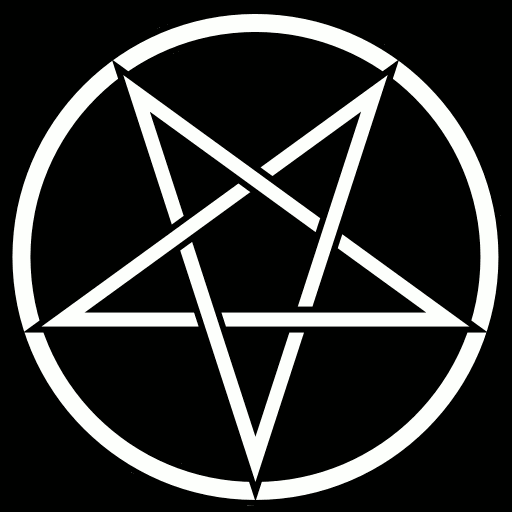
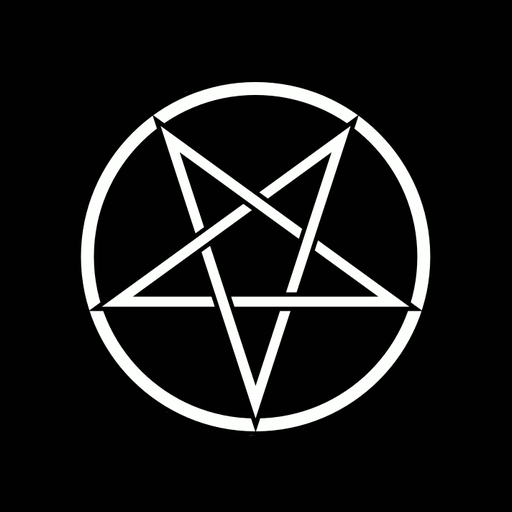
Add files via upload

Changed region(s): [[0.0, 0.0, 1.0, 1.0]]

diff --git a/index.html b/index.html
@@ -33,10 +33,13 @@ svg.gl{display:inline-block;vertical-align:-0.16em;}
 
 /* ---------- masthead ---------- */
 header{text-align:center;margin-bottom:22px;}
-.suitLoop{position:relative;width:38px;height:38px;border:1px solid var(--fg);margin:0 auto 14px;}
-.sl-g{position:absolute;inset:0;display:flex;align-items:center;justify-content:center;opacity:0;animation:suitCycle 7.2s infinite;}
-.sl-1{animation-delay:0s;} .sl-2{animation-delay:1.8s;} .sl-3{animation-delay:3.6s;} .sl-4{animation-delay:5.4s;}
-@keyframes suitCycle{0%{opacity:0;transform:scale(.82);}4%{opacity:1;transform:scale(1);}21%{opacity:1;transform:scale(1);}25%{opacity:0;transform:scale(1.12);}100%{opacity:0;}}
+.pentaWrap{width:42px;height:42px;margin:0 auto 14px;}
+.pentaIcon{width:100%;height:100%;display:block;transform-origin:center center;user-select:none;pointer-events:none;}
+@media (hover:none){
+  .pentaIcon{animation:pentaSpin 16s linear infinite;}
+}
+@keyframes pentaSpin{ from{transform:rotate(0deg);} to{transform:rotate(360deg);} }
+@media (prefers-reduced-motion:reduce){ .pentaIcon{animation:none;} }
 h1{font-family:'Manufacturing Consent','IBM Plex Mono',serif;font-weight:400;
    font-size:clamp(38px,13vw,58px);line-height:1;letter-spacing:.01em;}
 .kicker{font-size:9.5px;letter-spacing:.2em;text-transform:uppercase;color:var(--fg-dim);margin-top:9px;line-height:1.7;}
@@ -75,6 +78,8 @@ button:focus-visible{outline:1px solid var(--fg);outline-offset:2px;}
 .subtle{display:block;width:100%;background:none;border:none;color:var(--fg-dim);font-family:inherit;
   font-size:10px;letter-spacing:.18em;text-transform:uppercase;padding:12px 4px 2px;cursor:pointer;text-align:center;}
 .subtle:hover{color:var(--fg);}
+.solo-actions{display:flex;gap:6px;}
+.solo-actions .subtle{width:auto;flex:1;}
 
 /* ---------- interpret tab ---------- */
 .slot{margin-bottom:13px;position:relative;}
@@ -239,17 +244,19 @@ button:focus-visible{outline:1px solid var(--fg);outline-offset:2px;}
   letter-spacing:.12em;text-transform:uppercase;color:var(--fg-dim);line-height:1.3;}
 @media (prefers-reduced-motion:reduce){ .cardFace{transition:none;} }
 
-/* ---------- home card: static frame + scale-zoom breathing with table shadow ---------- */
-.cardHolder{display:inline-flex;align-items:center;justify-content:center;
-  padding:5px;border:1.5px solid #fff;border-radius:12px;}
+/* ---------- home card: cross mat + scale-zoom breathing with table shadow ---------- */
+.crossStage{position:relative;width:min(90vw,460px);margin:0 auto;}
+.crossImg{display:block;width:100%;height:auto;pointer-events:none;user-select:none;}
+.crossStage .cardSlot{position:absolute;top:32.68%;left:50%;}
 #soloSlot{border-radius:8px;transform-origin:center center;
   animation:cardBreathe 4.6s ease-in-out infinite;}
 @keyframes cardBreathe{
-  0%,100%{ transform:scale(1); box-shadow:0 3px 6px 0 rgba(0,0,0,.6); }
-  50%{ transform:scale(1.08); box-shadow:0 24px 34px 2px rgba(0,0,0,.22); }
+  0%,100%{ transform:translate(-50%,-50%) scale(1); box-shadow:0 3px 6px 0 rgba(0,0,0,.6); }
+  50%{ transform:translate(-50%,-50%) scale(1.08); box-shadow:0 24px 34px 2px rgba(0,0,0,.22); }
 }
 @media (prefers-reduced-motion:reduce){
-  #soloSlot{animation:none; box-shadow:0 3px 6px 0 rgba(0,0,0,.6);}
+  #soloSlot{animation:none; box-shadow:0 3px 6px 0 rgba(0,0,0,.6);
+    transform:translate(-50%,-50%) scale(1);}
 }
 
 /* ---------- quiz ---------- */
@@ -302,8 +309,8 @@ button:focus-visible{outline:1px solid var(--fg);outline-offset:2px;}
 <body>
 <div class="shell">
   <header>
-    <div class="suitLoop" aria-hidden="true">
-      <span class="sl-g sl-1"></span><span class="sl-g sl-2"></span><span class="sl-g sl-3"></span><span class="sl-g sl-4"></span>
+    <div class="pentaWrap">
+      <img src="./pentagram.png" class="pentaIcon" id="pentaIcon" alt="">
     </div>
     <h1>The Tarot</h1>
     <div class="kicker">Determine your destiny!<br>Predict your own future!</div>
@@ -315,14 +322,13 @@ button:focus-visible{outline:1px solid var(--fg);outline-offset:2px;}
   <!-- INTERPRET (1 CARD) -->
   <div class="pane on" id="pane-read">
     <div class="panoBg" id="panoBg"></div>
-    <div class="table" id="soloTable">
-      <div class="cardHolder">
-        <div class="cardSlot big" id="soloSlot" data-empty="1">
-          <div class="cardFace back" id="soloBack">
-            <img src="./cards/card_back.png" alt="Card back" loading="lazy">
-          </div>
-          <div class="cardFace front" id="soloFront"></div>
+    <div class="crossStage" id="crossStage">
+      <img src="./mat/cross-mat.png" class="crossImg" alt="" aria-hidden="true">
+      <div class="cardSlot big" id="soloSlot" data-empty="1">
+        <div class="cardFace back" id="soloBack">
+          <img src="./cards/card_back.png" alt="Card back" loading="lazy">
         </div>
+        <div class="cardFace front" id="soloFront"></div>
       </div>
     </div>
     <div class="ac-wrap" style="margin-top:16px;">
@@ -331,7 +337,10 @@ button:focus-visible{outline:1px solid var(--fg);outline-offset:2px;}
       <span class="fakeCaret" aria-hidden="true"></span>
       <div class="ac-list" id="soloList"></div>
     </div>
-    <button class="subtle" id="soloRandom">Random</button>
+    <div class="solo-actions">
+      <button class="subtle" id="soloRandom">Random</button>
+      <button class="subtle" id="soloReset">Reset</button>
+    </div>
     <div id="soloOut"></div>
   </div>
 
@@ -449,15 +458,19 @@ function cardImagePath(card){
   return null;
 }
 function cardPanoPath(card){
-  // Panoramic backgrounds exist for Majors only so far; Minors return null until added.
-  if(card.kind !== 'major') return null;
-  const romanMap={'0':0,'I':1,'II':2,'III':3,'IV':4,'V':5,'VI':6,'VII':7,'VIII':8,'IX':9,'X':10,
-    'XI':11,'XII':12,'XIII':13,'XIV':14,'XV':15,'XVI':16,'XVII':17,'XVIII':18,'XIX':19,'XX':20,'XXI':21};
-  const num = romanMap[card.numeral];
-  if(num === undefined) return null;
-  const padded = String(num).padStart(2,'0');
-  const safeName = card.name.replace(/\s+/g,'_');
-  return `./cards/panoramic/${padded}_${safeName}.jpg`;
+  if(card.kind === 'major'){
+    const romanMap={'0':0,'I':1,'II':2,'III':3,'IV':4,'V':5,'VI':6,'VII':7,'VIII':8,'IX':9,'X':10,
+      'XI':11,'XII':12,'XIII':13,'XIV':14,'XV':15,'XVI':16,'XVII':17,'XVIII':18,'XIX':19,'XX':20,'XXI':21};
+    const num = romanMap[card.numeral];
+    if(num === undefined) return null;
+    const padded = String(num).padStart(2,'0');
+    const safeName = card.name.replace(/\s+/g,'_');
+    return `./cards/panoramic/${padded}_${safeName}.jpg`;
+  } else if(card.kind === 'pip' || card.kind === 'court'){
+    const safeName = card.name.replace(/\s+/g,'_');
+    return `./cards/panoramic/${safeName}.jpg`;
+  }
+  return null;
 }
 
 const EL = mapGlyphs(['Fire','Water','Air','Earth']);
@@ -973,6 +986,14 @@ function setSoloCard(c){
 soloSlot.addEventListener('click', ()=>openPicker(setSoloCard));
 attachAutocomplete(soloInput, document.getElementById('soloList'), setSoloCard);
 document.getElementById('soloRandom').onclick=()=>{ setSoloCard(randomCards(1)[0]); };
+function resetSolo(){
+  soloSlot.classList.remove('flipped');
+  soloFront.innerHTML='';
+  soloInput.value=''; soloInput.dataset.cardid=''; soloInput.classList.remove('invalid');
+  soloOut.innerHTML='';
+  panoBg.classList.remove('on');
+}
+document.getElementById('soloReset').onclick=(e)=>{ pressFx(e.currentTarget); resetSolo(); };
 
 /* ---------- tab: Quiz Me ---------- */
 let quizPool=[], quizCard=null;
@@ -1173,10 +1194,16 @@ document.querySelectorAll('.tab').forEach(t=>{
   };
 });
 
-/* ---------- masthead element loop ---------- */
-['Fire','Water','Air','Earth'].forEach((el,i)=>{
-  document.querySelector('.sl-'+(i+1)).innerHTML = glyph(el, 19);
-});
+/* ---------- masthead pentagram: follows cursor on desktop, spins via CSS on touch ---------- */
+const pentaIcon=document.getElementById('pentaIcon');
+if(window.matchMedia('(hover:hover)').matches){
+  document.addEventListener('mousemove', e=>{
+    const rect=pentaIcon.getBoundingClientRect();
+    const cx=rect.left+rect.width/2, cy=rect.top+rect.height/2;
+    const angle=Math.atan2(e.clientY-cy, e.clientX-cx)*180/Math.PI;
+    pentaIcon.style.transform=`rotate(${angle-90}deg)`;
+  });
+}
 
 buildSpreadUI();
 try{ soloInput.focus({preventScroll:true}); }catch(e){ soloInput.focus(); }

diff --git a/sw.js b/sw.js
@@ -1,6 +1,6 @@
 // Card Analysis — service worker
 // Bump CACHE when you edit index.html so returning visitors get the update.
-const CACHE = 'the-tarot-v7';
+const CACHE = 'the-tarot-v9';
 const SHELL = [
   './',
   './index.html',
@@ -9,6 +9,8 @@ const SHELL = [
   './icon-512.png',
   './apple-touch-icon.png',
   './favicon-32.png',
+  './pentagram.png',
+  './mat/cross-mat.png',
   './cards/card_back.png'
 ];
 
